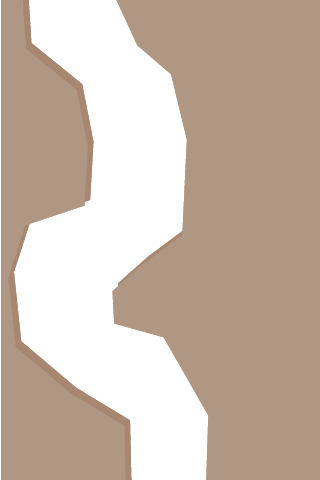
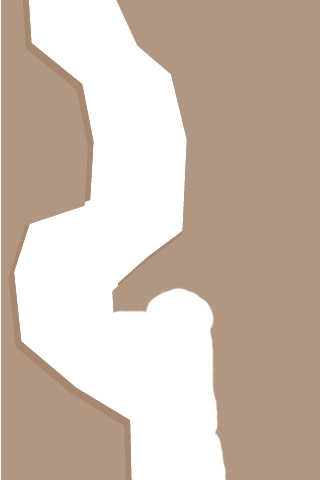
easy level

Changed region(s): [[0.3438, 0.5938, 0.7188, 1.0]]

diff --git a/app/ch17/columbia.html b/app/ch17/columbia.html
@@ -16,7 +16,7 @@
     <meta name=apple-mobile-web-app-status-bar-style content=black>
     <style>
       body { padding:0px; margin:0px; background-color:#1e7572; }
-      #quintus { background-color:#CCC; }
+      #quintus { background-color:#1e7572; }
     </style>
   </head>
   <body>
@@ -26,12 +26,22 @@
         var dr = document.getElementById('debug');
         //dr.innerHTML = info;
       }
+
+
+      $(window).resize(function() {
+        console.log('window was resized:'+window.innerHeight);
+        var canvas = document.getElementById('quintus');
+        canvas.height = window.innerHeight;
+        Q.height = window.innerHeight;
+        //Q.InputSystem.drawButtons();
+      });
+
       var Q = Quintus()
               .include("Input,Sprites,Scenes")
               .setup()
-              .controls();
 
-
+      Q.height = window.innerHeight;
+      Q.controls();
       Q.Ship = Q.MovingSprite.extend({
         step: function(dt) {
           if(Q.inputs['left'] || Q.inputs['right'] || Q.inputs['fire']){
@@ -251,10 +261,21 @@
         }
       });
 
+      Q.StretchBackground = Q.Sprite.extend({
+        draw: function(ctx) {
+          if(!ctx) { ctx = Q.ctx; }
+          ctx.drawImage(Q.asset(this.asset),
+            this.fx(frame),this.fy(frame),
+            this.tilew, this.tileh,
+            0,0,
+            Q.width, Q.height);
+        }
+      });
+
       Q.load(['lander.png','backgroundv1.png', 
               'lander_thrust.png','easy.png', 'mapv1.png','mapv2.png', 'mapv3.png'], function() {
-
-
+        Q.height = window.innerHeight;
+        console.log('current height is:'+ Q.height);
         Q.scene("level",new Q.Scene(function(stage) {
           stage.insert(new Q.Sprite({ asset: "backgroundv1.png" }));
           stage.insert(new Q.Sprite({ asset: "easy.png" }));
@@ -327,7 +348,7 @@
           ship.imageData = Q.imageData(Q.asset('lander.png'));
         }));
 
-        Q.stageMaps = {'level':'level1','level1':'level2', 'level2':'level3', 'level3':'level1'};
+        Q.stageMaps = {'level':'level1','level1':'level2', 'level2':'level3', 'level3':'level'};
         Q.currentStage = "level";
         Q.stageScene("level");
 

diff --git a/app/ch17/js/quintus_input.js b/app/ch17/js/quintus_input.js
@@ -91,8 +91,8 @@ touchLocation: function(touch) {
         left: 0,
         gutter:10,
         controls: DEFAULT_TOUCH_CONTROLS,
-        width: Q.el.attr('width') || Q.width,
-        bottom: Q.el.attr('height') || Q.height
+        width: Q.width,
+        bottom: Q.height
       }).extend(opts||{});
 
       opts.unit = (opts.width / opts.controls.length);
